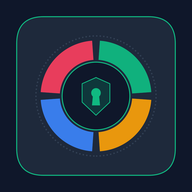
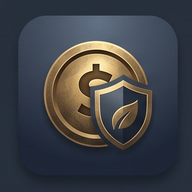
Add files via upload

diff --git a/index.html b/index.html
@@ -33,10 +33,10 @@
   <meta name="background-color" content="#0f172a">
 
   <!-- PWA: icons -->
-  <link rel="icon" type="image/png" sizes="32x32" href="icons/favicon-32.png">
-  <link rel="icon" type="image/png" sizes="16x16" href="icons/favicon-16.png">
-  <link rel="shortcut icon" href="icons/favicon.ico">
-  <link rel="apple-touch-icon" sizes="180x180" href="icons/icon-180.png">
+  <link rel="icon" type="image/png" sizes="32x32" href="favicon-32.png">
+  <link rel="icon" type="image/png" sizes="16x16" href="favicon-16.png">
+  <link rel="shortcut icon" href="favicon.ico">
+  <link rel="apple-touch-icon" sizes="180x180" href="icon-180.png">
 
   <!-- PWA: iOS / Android standalone install behavior -->
   <meta name="apple-mobile-web-app-capable" content="yes">
@@ -2274,9 +2274,7 @@ ${JSON.stringify(contextPayload)}`;
             {/* HEADER */}
             <header className="no-print flex flex-col md:flex-row md:items-center justify-between bg-slate-800 p-6 rounded-xl border border-slate-700 shadow-lg">
               <div className="flex items-center space-x-3 mb-4 md:mb-0">
-                <div className="p-3 bg-emerald-500/10 text-emerald-400 rounded-lg border border-emerald-500/20">
-                  <i data-lucide="shield" className="w-8 h-8"></i>
-                </div>
+                <img src="icon-192.png" alt="Financial Vault" className="w-14 h-14 rounded-xl border border-emerald-500/20 shadow-md" />
                 <div>
                   <h1 className="text-xl font-bold tracking-wide">Financial Vault & Capital Allocator</h1>
                   <p className="text-xs text-slate-400 flex items-center gap-1 mt-0.5">

diff --git a/sw.js b/sw.js
@@ -3,19 +3,19 @@
 // app opens and functions offline. All financial data itself lives in
 // IndexedDB/localStorage in the browser, not in this cache.
 
-const CACHE_VERSION = 'finvault-v8';
+const CACHE_VERSION = 'finvault-v11';
 
 const APP_SHELL = [
   './',
   './index.html',
   './manifest.json',
-  './icons/icon-192.png',
-  './icons/icon-512.png',
-  './icons/icon-192-maskable.png',
-  './icons/icon-512-maskable.png',
-  './icons/icon-180.png',
-  './icons/favicon-32.png',
-  './icons/favicon-16.png'
+  './icon-192.png',
+  './icon-512.png',
+  './icon-192-maskable.png',
+  './icon-512-maskable.png',
+  './icon-180.png',
+  './favicon-32.png',
+  './favicon-16.png'
 ];
 
 // Third-party libraries the app depends on — cached so the app still loads
